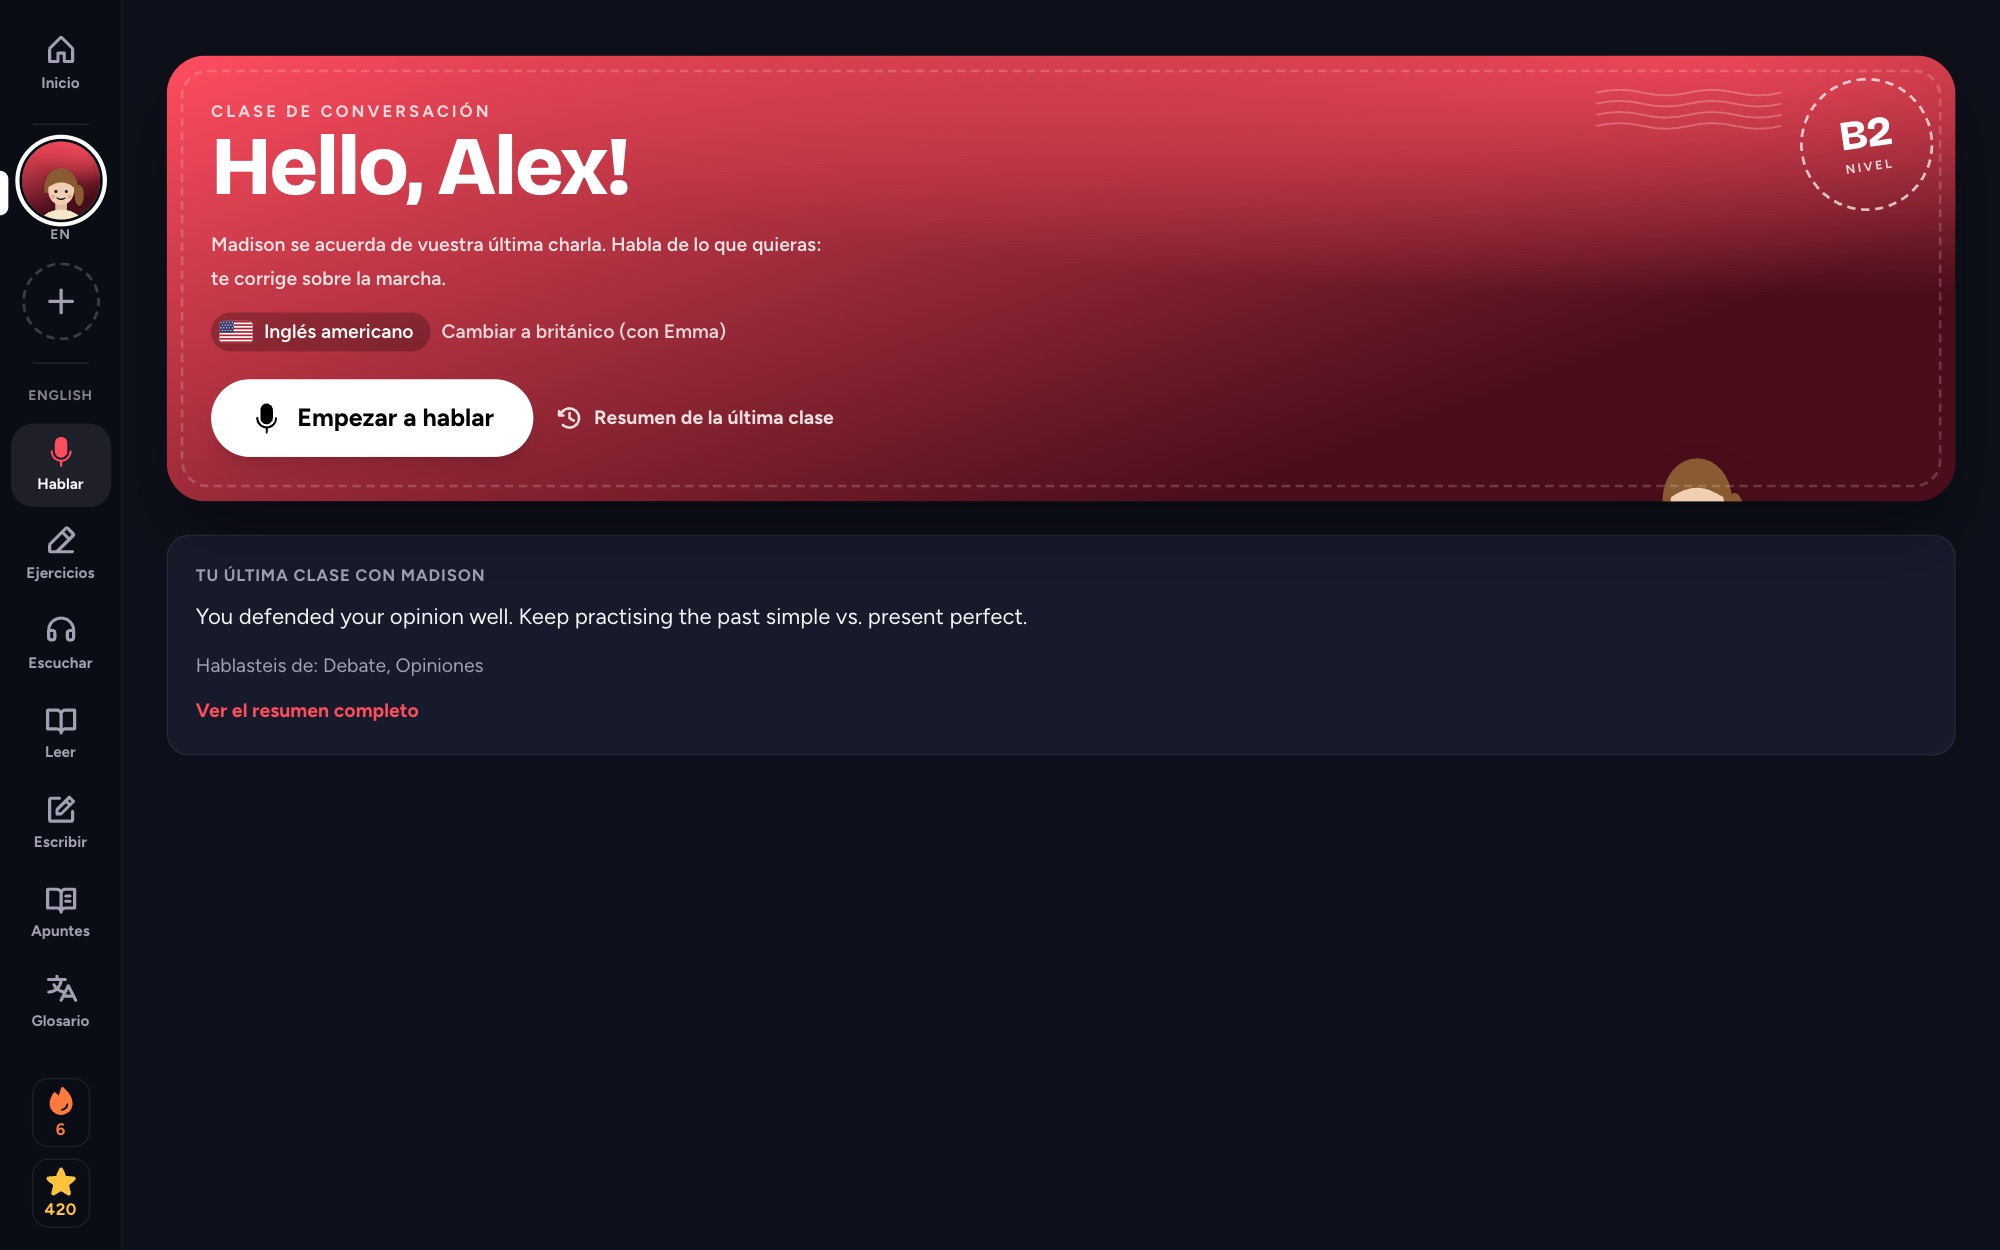
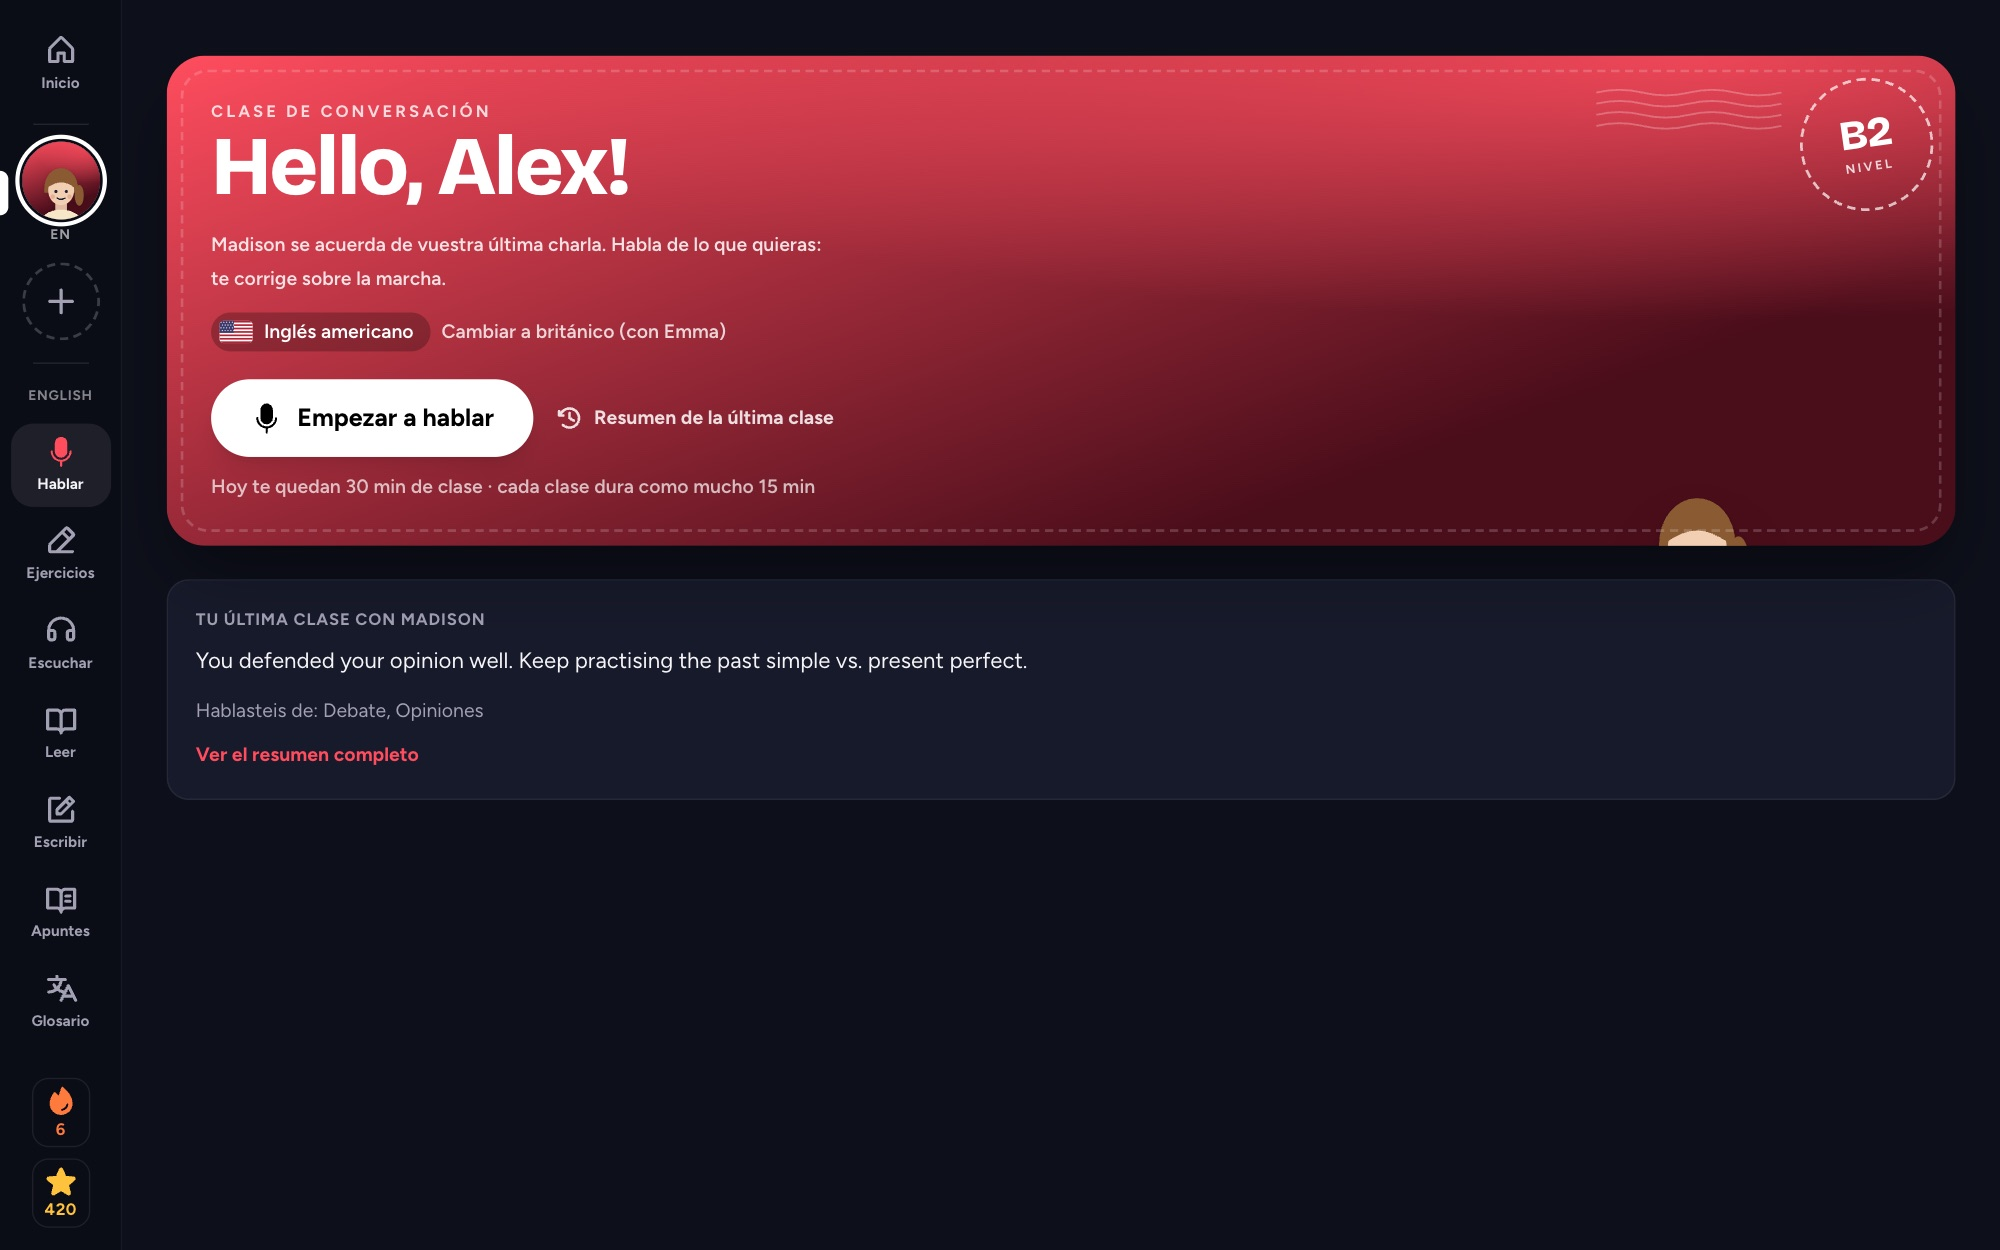
Cabecera con los dos proyectos (Job Agent y tutor de idiomas), bio más corta y novedades del tutor

Changed region(s): [[0.062, 0.3432, 0.992, 0.624]]

diff --git a/index.html b/index.html
@@ -4,7 +4,7 @@
 <meta charset="utf-8">
 <meta name="viewport" content="width=device-width, initial-scale=1">
 <title>Enriqueta Gersol · Portfolio</title>
-<meta name="description" content="Enriqueta Gersol, Telecommunications Engineer based in Madrid. I design and build products with AI, cloud and APIs.">
+<meta name="description" content="Enriqueta Gersol, Telecommunications Engineer based in Madrid. I design and build products with AI, cloud and APIs: an AI job-search agent and a voice language tutor.">
 <link rel="preconnect" href="https://fonts.googleapis.com">
 <link rel="preconnect" href="https://fonts.gstatic.com" crossorigin>
 <link href="https://fonts.googleapis.com/css2?family=Inter:wght@400;500;600;700;800&display=swap" rel="stylesheet">
@@ -48,7 +48,9 @@ img { max-width: 100%; display: block; }
 .portada-grid { display: grid; grid-template-columns: minmax(0, 1fr) minmax(0, 1.05fr); gap: 48px; align-items: center; }
 .portada .portada-grid h1 { font-size: clamp(34px, 4.4vw, 52px); }
 .portada p.lema b { color: var(--texto); font-weight: 600; }
+.portada-proyectos { display: grid; gap: 18px; }
 .portada-captura { margin: 0; }
+.portada-captura .marco img { height: 230px; width: 100%; object-fit: cover; object-position: top; }
 .portada-captura .marco { display: block; transition: transform .15s, box-shadow .15s; }
 .portada-captura .marco:hover { transform: translateY(-2px); border-color: #555; }
 .portada-captura figcaption { margin-top: 10px; font-size: 14px; font-weight: 600; }
@@ -181,8 +183,7 @@ footer { border-top: 1px solid var(--borde); color: var(--suave); font-size: 13.
           <span lang="en">Telecommunications Engineer based in Madrid. I design and build products with AI, cloud and APIs.</span>
         </p>
         <p class="lema">
-          <span lang="es">Vengo de la consultoría estratégica. Me motiva tener <b>ownership</b>, trabajar <b>hands-on</b> y ver el impacto de lo que construyo y cómo aporta valor al cliente. En paralelo, me estoy formando por mi cuenta en IA y lo pongo en práctica con proyectos personales. El último es un agente de IA que gestiona la búsqueda de empleo de principio a fin: busca ofertas ajustadas a mi experiencia, según mi CV, y a mis preferencias, y cuanto más lo uso más aprende: de las que me interesan, de las que descarto y de las candidaturas en las que ya me han rechazado. Además adapta mi CV a cada oferta, sigue mis candidaturas y lee mi correo.</span>
-          <span lang="en">I come from strategy consulting. I'm driven by <b>ownership</b>, <b>hands-on</b> work and seeing the impact of what I build and how it creates value for customers. Alongside it, I'm teaching myself AI and putting it into practice through personal projects. The latest is an AI agent that runs a job search end to end: it finds openings that match my experience, based on my CV, and my preferences, and the more I use it the more it learns: from the ones I like, the ones I reject and the applications where I've already been turned down. It also tailors my CV to each opening, tracks my applications and reads my email.</span>
+          <span lang="es">Vengo de la consultoría estratégica. Me motiva tener <b>ownership</b>, trabajar <b>hands-on</b> y ver el impacto de lo que construyo y cómo aporta valor al cliente. En paralelo, me formo por mi cuenta en IA y lo pongo en práctica con proyectos personales: <b>Job Agent</b>, un agente que gestiona la búsqueda de empleo de principio a fin y aprende de cada decisión, y un <b>tutor de idiomas por voz</b> con el que hablas como en una clase particular, que te corrige mientras hablas y te prepara ejercicios a partir de tus errores.</span><span lang="en">I come from strategy consulting. I'm driven by <b>ownership</b>, <b>hands-on</b> work and seeing the impact of what I build and how it creates value for customers. Alongside it, I'm teaching myself AI and putting it into practice through personal projects: <b>Job Agent</b>, an agent that runs a job search end to end and learns from every decision, and a <b>voice language tutor</b> you talk to like a private teacher, which corrects you as you speak and builds exercises from your mistakes.</span>
         </p>
         <div class="botones">
         <a class="boton primario" href="mailto:quecagersol@gmail.com" data-email="quecagersol@gmail.com"><span lang="es">Escríbeme</span><span lang="en">Email me</span></a>
@@ -190,15 +191,21 @@ footer { border-top: 1px solid var(--borde); color: var(--suave); font-size: 13.
         <a class="boton" href="https://github.com/enriquetagersol" target="_blank" rel="noopener">GitHub</a>
         </div>
       </div>
-      <figure class="portada-captura">
-        <a class="marco" href="#job-agent"><div class="puntos"><i></i><i></i><i></i></div><img src="img/ja-dashboard.jpg" alt="Job Agent"></a>
-        <figcaption><a href="#job-agent"><span lang="es">Job Agent: cómo funciona ↓</span><span lang="en">Job Agent: how it works ↓</span></a></figcaption>
-      </figure>
+      <div class="portada-proyectos">
+        <figure class="portada-captura">
+          <a class="marco" href="#job-agent"><div class="puntos"><i></i><i></i><i></i></div><img src="img/ja-dashboard.jpg" alt="Job Agent"></a>
+          <figcaption><a href="#job-agent"><span lang="es">Job Agent: cómo funciona ↓</span><span lang="en">Job Agent: how it works ↓</span></a></figcaption>
+        </figure>
+        <figure class="portada-captura">
+          <a class="marco" href="#tutor"><div class="puntos"><i></i><i></i><i></i></div><img src="img/tutor-curso.jpg" alt="Tutor de idiomas"></a>
+          <figcaption><a href="#tutor"><span lang="es">Tutor de idiomas por voz <span class="en-desarrollo">WIP</span> ↓</span><span lang="en">Voice language tutor <span class="en-desarrollo">WIP</span> ↓</span></a></figcaption>
+        </figure>
+      </div>
     </div>
     <div class="skills">
       <a class="skill" href="#job-agent"><b><span lang="es">Agentes de IA</span><span lang="en">AI agents</span></b><p><span lang="es">Que leen, puntúan, redactan y aprenden de mi feedback.</span><span lang="en">That read, score, write and learn from my feedback.</span></p><span class="prueba">Job Agent →</span></a>
       <a class="skill" href="#tfm"><b><span lang="es">Cloud serverless</span><span lang="en">Serverless cloud</span></b><p><span lang="es">Un SaaS completo en AWS, con su modelo de costes.</span><span lang="en">A full SaaS on AWS, with its cost model.</span></p><span class="prueba"><span lang="es">29 Lambdas · 7 tablas →</span><span lang="en">29 Lambdas · 7 tables →</span></span></a>
-      <a class="skill" href="#job-agent"><b><span lang="es">Integraciones</span><span lang="en">Integrations</span></b><p><span lang="es">Gmail, Slack y las APIs de Ashby, Greenhouse y Lever.</span><span lang="en">Gmail, Slack and the Ashby, Greenhouse and Lever APIs.</span></p><span class="prueba"><span lang="es">145 empresas · 7 plataformas →</span><span lang="en">145 companies · 7 platforms →</span></span></a>
+      <a class="skill" href="#tutor"><b><span lang="es">IA por voz</span><span lang="en">Voice AI</span></b><p><span lang="es">Clases habladas en tiempo real que corrigen mientras hablas.</span><span lang="en">Real-time spoken lessons that correct you as you speak.</span></p><span class="prueba"><span lang="es">Tutor de idiomas →</span><span lang="en">Language tutor →</span></span></a>
       <a class="skill" href="#tfg"><b><span lang="es">Apps de principio a fin</span><span lang="en">End-to-end apps</span></b><p><span lang="es">Móvil, backend, base de datos y panel de gestión.</span><span lang="en">Mobile, backend, database and admin portal.</span></p><span class="prueba"><span lang="es">App con 3 roles →</span><span lang="en">3-role app →</span></span></a>
     </div>
   </div>
@@ -323,7 +330,7 @@ footer { border-top: 1px solid var(--borde); color: var(--suave); font-size: 13.
 
         <h3 class="subtitulo"><span lang="es">Funcionalidades</span><span lang="en">Features</span></h3>
         <div class="funciones">
-          <div class="funcion"><div class="icono">🎙</div><b><span lang="es">Clases por voz</span><span lang="en">Voice lessons</span></b><ul><li><span lang="es">Hablas con un profesor nativo: 14 profesores en 5 idiomas (francés, inglés, italiano, alemán y portugués), con variantes como inglés británico o americano.</span><span lang="en">You talk to a native teacher: 14 teachers across 5 languages (French, English, Italian, German and Portuguese), with variants such as British or American English.</span></li><li><span lang="es">Te corrige sobre la marcha y se acuerda de la última charla.</span><span lang="en">It corrects you as you go and remembers your last conversation.</span></li></ul></div>
+          <div class="funcion"><div class="icono">🎙</div><b><span lang="es">Clases por voz</span><span lang="en">Voice lessons</span></b><ul><li><span lang="es">Hablas con un profesor nativo: 14 profesores en 5 idiomas (francés, inglés, italiano, alemán y portugués), con variantes como inglés británico o americano.</span><span lang="en">You talk to a native teacher: 14 teachers across 5 languages (French, English, Italian, German and Portuguese), with variants such as British or American English.</span></li><li><span lang="es">Te corrige sobre la marcha y se acuerda de la última charla. Las clases duran como mucho 15 minutos (30 al día): cuando se acaba el tiempo, el profesor cierra la charla con naturalidad.</span><span lang="en">It corrects you as you go and remembers your last conversation. Lessons last up to 15 minutes (30 a day): when time runs out, the teacher wraps up naturally.</span></li></ul></div>
           <div class="funcion"><div class="icono">🧭</div><b><span lang="es">Prueba de nivel</span><span lang="en">Placement test</span></b><ul><li><span lang="es">Gramática, listening y speaking para fijar el nivel inicial, que luego se ajusta clase a clase.</span><span lang="en">Grammar, listening and speaking to set your starting level, which is then adjusted lesson by lesson.</span></li></ul></div>
           <div class="funcion"><div class="icono">🧠</div><b><span lang="es">Aprende de tus errores</span><span lang="en">Learns from your mistakes</span></b><ul><li><span lang="es">Al colgar, Claude repasa la conversación, actualiza tu ficha (errores, vocabulario, nivel) y te da un informe.</span><span lang="en">When you hang up, Claude reviews the conversation, updates your profile (mistakes, vocabulary, level) and gives you a report.</span></li><li><span lang="es">Ejercicios y fichas de teoría adaptados a tus errores; un error se da por superado cuando lo aciertas varias veces.</span><span lang="en">Exercises and grammar notes tailored to your mistakes; a mistake counts as overcome once you get it right several times.</span></li></ul></div>
           <div class="funcion"><div class="icono">🎧</div><b><span lang="es">Listening, reading y writing</span><span lang="en">Listening, reading and writing</span></b><ul><li><span lang="es">Audios y textos adaptados a tu nivel y a tus intereses, con preguntas.</span><span lang="en">Audio and texts adapted to your level and interests, with questions.</span></li><li><span lang="es">Los writings se corrigen con los criterios de Cambridge: nota, comentarios y versión corregida.</span><span lang="en">Writings are marked with Cambridge criteria: score, comments and a corrected version.</span></li></ul></div>
@@ -338,6 +345,11 @@ footer { border-top: 1px solid var(--borde); color: var(--suave); font-size: 13.
             <figcaption><span lang="es">Clase de conversación: el profesor recuerda la última charla</span><span lang="en">Conversation lesson: the teacher remembers your last chat</span></figcaption></figure>
         </div>
 
+        <h3 class="subtitulo"><span lang="es">Decisiones de producto</span><span lang="en">Product decisions</span></h3>
+        <ul class="decisiones" style="margin-bottom:24px">
+              <li><span class="n">1</span><div><b><span lang="es">Coste bajo control</span><span lang="en">Cost under control</span></b><p><span lang="es">Límite de minutos por clase y por persona y día, y el modelo justo para cada tarea: el gasto de voz y de IA no se dispara.</span><span lang="en">Minute limits per lesson and per person per day, and the right model for each task, so voice and AI costs stay in check.</span></p></div></li>
+              <li><span class="n">2</span><div><b><span lang="es">Solo por invitación</span><span lang="en">Invite-only</span></b><p><span lang="es">Se entra con Google o con un enlace por email, hay un tope de personas y cada una solo ve sus propios cursos.</span><span lang="en">Sign in with Google or an email link, with a cap on users, and each person only sees their own courses.</span></p></div></li>
+        </ul>
         <div class="dos-columnas">
           <div class="caja">
             <h3><span lang="es">Mi papel</span><span lang="en">My role</span></h3>
@@ -347,9 +359,9 @@ footer { border-top: 1px solid var(--borde); color: var(--suave); font-size: 13.
             <h3><span lang="es">Cómo está hecho</span><span lang="en">How it is built</span></h3>
             <dl class="ficha">
               <dt><span lang="es">Voz</span><span lang="en">Voice</span></dt><dd><span lang="es">LiveKit Agents: voz en tiempo real, reconocimiento y síntesis de voz y detección de turnos</span><span lang="en">LiveKit Agents: real-time voice, speech recognition and synthesis, and turn detection</span></dd>
-              <dt><span lang="es">IA</span><span lang="en">AI</span></dt><dd><span lang="es">Claude para conversar, corregir y generar ejercicios, textos y exámenes con salidas estructuradas</span><span lang="en">Claude to talk, correct and generate exercises, texts and exams with structured outputs</span></dd>
+              <dt><span lang="es">IA</span><span lang="en">AI</span></dt><dd><span lang="es">Claude para conversar, corregir y generar ejercicios, textos y exámenes con salidas estructuradas; Haiku para lo que se genera en volumen y Sonnet para lo que pide más finura</span><span lang="en">Claude to talk, correct and generate exercises, texts and exams with structured outputs; Haiku for high-volume generation and Sonnet where more nuance is needed</span></dd>
               <dt><span lang="es">App</span><span lang="en">App</span></dt><dd>Python · FastAPI · Next.js · React</dd>
-              <dt><span lang="es">Despliegue</span><span lang="en">Deployment</span></dt><dd><span lang="es">En preparación: Supabase (cuentas por invitación y datos), Railway, Vercel y LiveKit Cloud</span><span lang="en">In progress: Supabase (invite-only accounts and data), Railway, Vercel and LiveKit Cloud</span></dd>
+              <dt><span lang="es">Despliegue</span><span lang="en">Deployment</span></dt><dd><span lang="es">Preparado para la nube: Vercel (web), Railway (API), LiveKit Cloud (profesor) y Supabase (cuentas y datos)</span><span lang="en">Cloud-ready: Vercel (web), Railway (API), LiveKit Cloud (teacher) and Supabase (accounts and data)</span></dd>
               <dt><span lang="es">Código</span><span lang="en">Code</span></dt><dd><span lang="es">Privado</span><span lang="en">Private</span></dd>
             </dl>
           </div>
